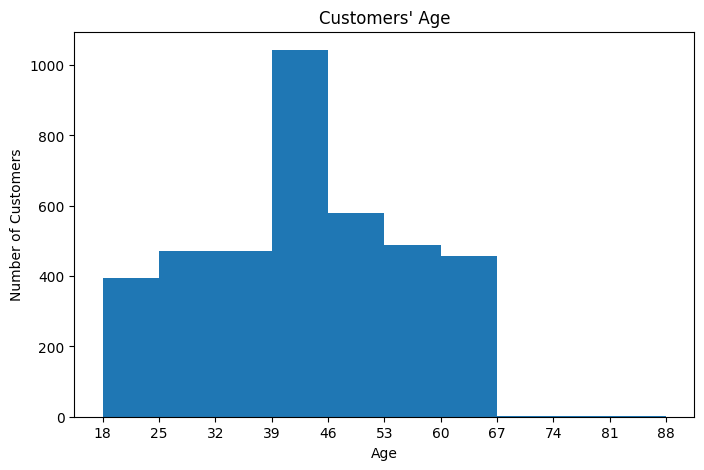
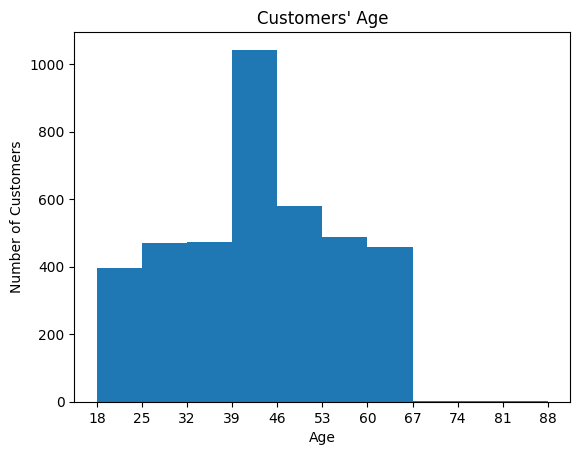
Data Visualization

Changed region(s): [[0.0, 0.0, 0.9931, 0.9846], [0.5276, 0.4308, 0.5586, 0.5231], [0.6207, 0.5231, 0.6517, 0.5538]]

diff --git a/data_insights.py b/data_insights.py
@@ -84,7 +84,7 @@ df_fin['age'] = df_fin['DOB'].apply(lambda x: from_dob_to_age(x))
 print(df_fin.head())
 print(df_fin.columns)
 print(len(df_fin.index))
-# df_fin.to_csv('Docs/final_df.csv', index=False)
+df_fin.to_csv('Docs/final_df.csv', index=False)
 
 # %% Data Distribution
 # standardize values in gender and state columns
@@ -101,11 +101,34 @@ print(df_fin.gender.unique())
 # drop age that is greater than 150
 df_fin = df_fin[df_fin.age < 150]
 count, bin_edges = np.histogram(df_fin['age'])
-df_fin['age'].plot(kind='hist', figsize=(8, 5), xticks=bin_edges)
+df_fin['age'].plot(kind='hist', xticks=bin_edges)
 
 plt.title("Customers' Age")
 plt.xlabel('Age')
 plt.ylabel('Number of Customers')
 plt.savefig('Customer Age.png', bbox_inches='tight')
 plt.show()
+
+# %%
+df_fin['gender'].value_counts().plot(kind='pie', title='Customer Gender', autopct='%1.2f%%')
+plt.savefig('Customer Gender.png', bbox_inches='tight')
+plt.show()
+
+# %%
+dfgp = df_fin.groupby('state')
+
+df_state = pd.DataFrame(columns=['state', 'total_number_of_products', 'past_3yrs_total_purchases'])
+
+for name, group in dfgp:
+    prod = dfgp.get_group(name).total_number_of_products.sum()
+    past = dfgp.get_group(name).past_3_years_bike_related_purchases.sum()
+    df_state = df_state.append({'state': name, 'total_number_of_products': prod, 'past_3yrs_total_purchases': past},
+                               ignore_index=True)
+
+df_state.plot(kind='bar', x='state', y=['past_3yrs_total_purchases'], title='State Statistics', color='purple')
+plt.xlabel('State')
+plt.ylabel('Past 3 Years Bike Related Purchases')
+plt.savefig('State Statistics.png', bbox_inches='tight')
+plt.show()
+
 
